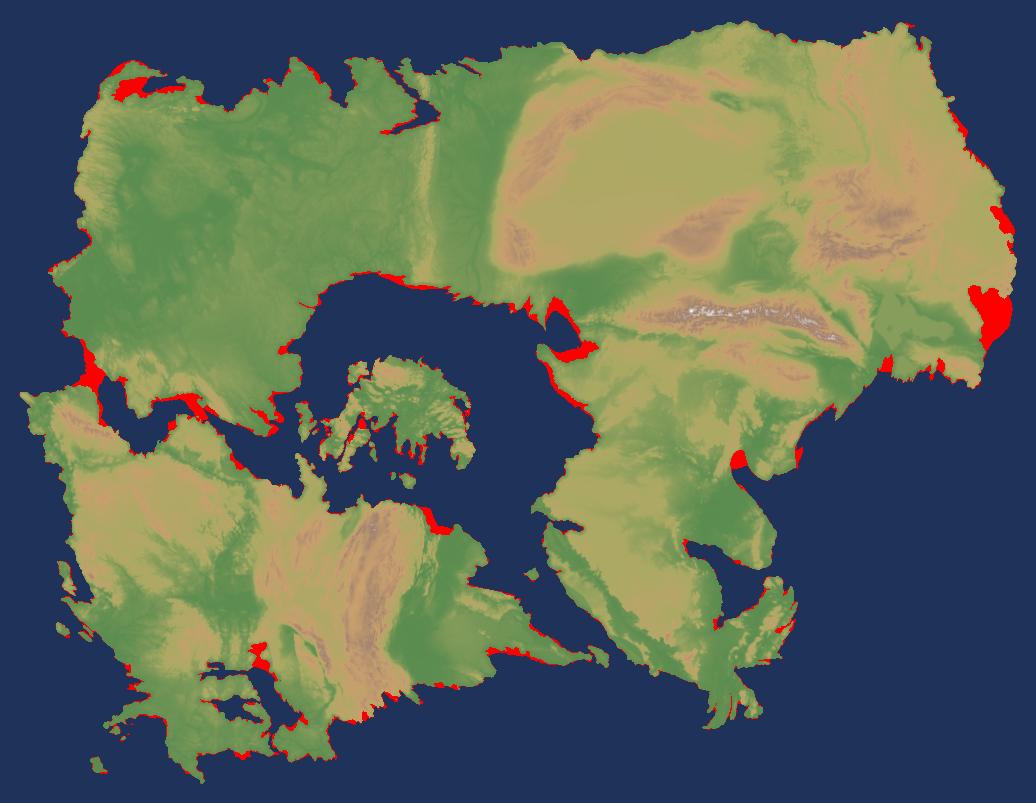
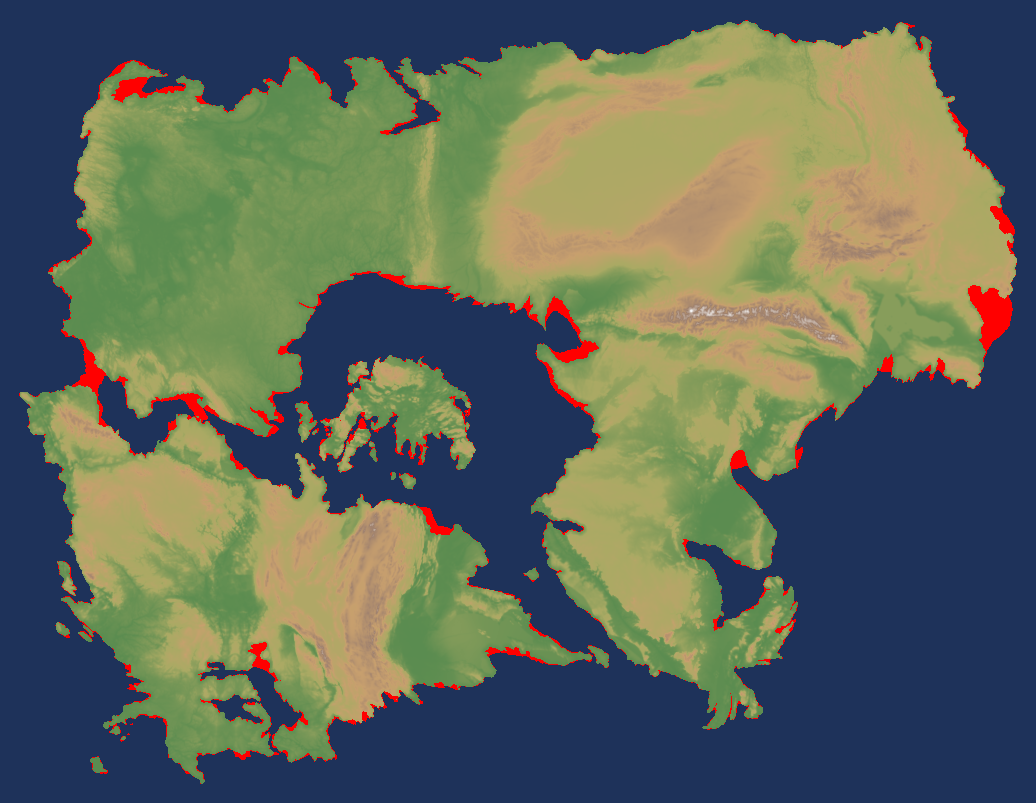
Tarih: 2'nin ortası bağlantılı tek karşılık (aynalı, güçlü bükülmüş Tarım sistemi); deneme
Claude-Session: https://claude.ai/code/session_01TrTgWsQ7k9npTcPJkL6aYQ

diff --git a/tarih/benzer.py b/tarih/benzer.py
@@ -41,30 +41,24 @@ KARSILIK = [
         "nokta": [(1250, 150, 93.0, 69.0), (1680, 240, 106.5, 53.0)],
         "gol": [("Derin Göl", [(103.7, 51.5), (104.9, 51.5), (106.2, 52.1), (107.4, 52.8), (108.6, 53.4), (109.5, 54.4), (110.0, 55.7),
                                (109.4, 55.9), (108.5, 54.9), (107.3, 53.9), (106.3, 53.3), (105.2, 52.6), (104.1, 51.9)])],
-        "bolge": [(1080, 0), (2000, 0), (2000, 600), (1700, 560), (1500, 470), (1300, 450), (1100, 470), (1080, 300)],
+        "bolge": [(1550, 0), (2000, 0), (2000, 560), (1780, 450), (1700, 150)],
     },
-    {   # 2'nin batı ortası: çanak plato (sahibin bozkır platosu, atlasta işaretli). Karşılığı Tarım havzası ve çevresi:
-        # sert, kıvrılmamış Kır Çekirdeği bloğu (Kuzey Tuzakları bazaltlarıyla örtülü) Mor çarpışmasıyla bütün olarak kalktı,
-        # kenarlarındaki eski dikişler sıradağ oldu. Taban 800 ile 1000 m'ye, kenar sıraları 3 ile 3,5 km'ye ölçeklendi.
-        "ad": "Tarım", "kutu": (70, 98, 33, 50), "parca": {"2", "serit"}, "oncelik": 4.0, "yumusak_km": 70,
-        "yukseklik_egri": [(0, 0), (1500, 1200), (8000, 4775)],
-        "etiket": [("Tuzak Çanağı", 83.0, 39.6, 18), ("ÇANAK SIRALARI", 84.0, 42.4, 14)],
-        "nokta": [(1010, 380, 76.0, 39.5), (1470, 300, 90.5, 40.3), (1250, 470, 84.0, 36.4), (1230, 140, 84.0, 42.8)],
-        "bolge": [(1211, 68), (1352, 78), (1471, 179), (1525, 310), (1530, 323), (1449, 400), (1444, 441), (1400, 470), (1250, 470),
-                  (1125, 470), (1027, 470), (968, 458), (952, 441), (968, 294), (1027, 163), (1081, 114), (1146, 78)],
-    },
-    {   # Mor çizgisi: Büyük Kafkas (2,2 kat uzatıldı, yükseklik 0,8); kuzeyde Stavropol yaylası, güneyde Kura ovası
-        "ad": "Kafkas", "kutu": (35, 51, 38.5, 47.5), "parca": {"2", "3", "serit"}, "carpan": 1.15,
-        "etiket": [("MOR SIRADAĞLARI", 43.5, 43.0, 19), ("Şerit Yaylası", 42.5, 45.2, 16), ("Mor Ön Ovası", 42.3, 42.3, 15)],
-        "nokta": [(1085, 600, 37.4, 44.9), (1400, 595, 43.2, 43.0), (1720, 680, 49.8, 40.5)],
-        "bolge": [(1000, 600), (1100, 470), (1300, 450), (1500, 470), (1700, 560), (2000, 600), (2000, 780), (1760, 760), (1500, 720),
-                  (1300, 680), (1140, 680), (1050, 690)],
+    {   # 2'nin ortası ve Mor çizgisi tek parça: Kunlun = Mor Sıradağları, Tarım = Tuzak Çanağı (sahibin bozkır platosu),
+        # Tanrı Dağları = Çanak Sıraları, Cungarya ve Altay kuzeyde. Tibet dahil değil: Mor'un güneyi 3'tür (Hindistan karşılığı).
+        # Yükseklik eğrisi: çanak tabanı 800 ile 1000 m, Mor doruğu 6 km dolayı.
+        "ad": "Tarım", "kutu": (66, 104, 33, 52), "parca": {"2", "3", "serit"}, "yumusak_km": 45, "ayna": True, "bukme_kat": 2.5,
+        "yukseklik_egri": [(0, 0), (1300, 1000), (3500, 2600), (8000, 6000)],
+        "etiket": [("MOR SIRADAĞLARI", 86.0, 36.2, 19), ("Tuzak Çanağı", 83.0, 39.4, 18), ("ÇANAK SIRALARI", 84.5, 42.6, 14)],
+        "nokta": [(1720, 670, 77.0, 36.6), (1500, 612, 84.0, 36.0), (1300, 565, 90.0, 36.0), (1100, 595, 96.0, 35.6),
+                  (1350, 230, 84.0, 42.8)],
+        "bolge": [(940, 60), (1550, 40), (1700, 150), (1780, 450), (2000, 560), (2000, 730), (1720, 690), (1500, 635), (1300, 588),
+                  (1100, 615), (1040, 640), (1000, 600), (940, 450)],
     },
     {   # 3: Ganj ovası = Mor Ön Ovası, Dekkan = Kızıl Basamaklar, Batı Gatlar = kanal omzu
         "ad": "Hindistan", "kutu": (62, 95, 3, 32), "parca": {"3"},
         "etiket": [("Kızıl Basamaklar", 76.5, 19.0, 17)],
         "benzerlik": (1220, 950, 77.0, 18.0, 18.0, 1.55, False),
-        "bolge": [(1000, 640), (1200, 640), (1500, 690), (1750, 740), (1560, 790), (1480, 1000), (1420, 1200), (1360, 1460), (1100, 1360), (980, 1100)],
+        "bolge": [(1000, 620), (1200, 610), (1500, 660), (1750, 720), (1560, 790), (1480, 1000), (1420, 1200), (1360, 1460), (1100, 1360), (980, 1100)],
     },
     {   # 3'ün doğu kıyısı: Sumatra ve Cava yayı (aynalı) = Doğu Yay Dağları ve güneydoğu yarımadası
         "ad": "Sumatra", "kutu": (92, 117, -11, 9), "parca": {"3"}, "ayna": True,
@@ -173,7 +167,7 @@ def ornekle(k, ny, nx, s, maske_w, kaynaklar, bukme=None):
     """Ağırlığı sıfır olmayan hücrelerde kaynak yüksekliği; parçalı değerlendirme. bukme: (WX, WY) görüntü pikseli."""
     ileri, _ = esleme(k)
     if k["ad"] not in kaynaklar:
-        kaynaklar[k["ad"]] = dem.Kaynak(*k["kutu"], z=k.get("z", 6)).doldur(kutu=k["kutu"])
+        kaynaklar[k["ad"]] = dem.Kaynak(*k["kutu"], z=k.get("z", 6)).doldur(kutu=k["kutu"], kes=k.get("kes"))
     K = kaynaklar[k["ad"]]
     out = np.zeros((ny, nx), np.float32); deniz = np.zeros((ny, nx), np.float32)
     ii, jj = np.nonzero(maske_w > 1e-3)
@@ -181,7 +175,8 @@ def ornekle(k, ny, nx, s, maske_w, kaynaklar, bukme=None):
         i, j = ii[a:a + 400000], jj[a:a + 400000]
         x, y = j / s, i / s
         if bukme is not None:
-            x = x + bukme[0][i, j]; y = y + bukme[1][i, j]
+            kb = k.get("bukme_kat", 1.0)
+            x = x + kb * bukme[0][i, j]; y = y + kb * bukme[1][i, j]
         ll = ileri(np.stack([x, y], 1))
         h = K.ornek(ll[:, 0], ll[:, 1]) * k.get("carpan", 1.0)
         if k.get("yukseklik_egri"):
@@ -200,6 +195,87 @@ def ornekle(k, ny, nx, s, maske_w, kaynaklar, bukme=None):
             px, py = dem.merc(ll[:, 0], ll[:, 1], K.z)
             GOL[i, j] = np.maximum(GOL[i, j], ndimage.map_coordinates(K.golm, [py - K.ty0 * 256, px - K.tx0 * 256], order=1))
     return out, deniz
+
+
+
+# ------------------------------------------------------------------ tasarlanan bölge
+# 2'nin ortası ve Mor kuşağı: büyük şekil elle tasarlanır (kopya olmasın), gerçek veriden yalnız küçük ölçekli doku alınır
+# (Tarım karşılığının 25 km'den küçük sırt ve vadileri). Görüntü pikseli; yükseklik m.
+TASARIM = {
+    "etkin": False,  # denendi, kenar sıraları yapay kaldı; yerine aynalı ve güçlü bükülmüş Tarım karşılığı
+    "alan": [(900, 40), (1560, 20), (1730, 250), (1800, 480), (2000, 560), (2000, 770), (1760, 745), (1500, 705), (1080, 668),
+             (960, 610), (900, 400)],
+    "taban": ([(1000, 330), (1040, 200), (1110, 150), (1210, 130), (1340, 135), (1430, 205), (1470, 300), (1500, 420),
+               (1420, 480), (1250, 470), (1100, 470), (1010, 430)], (1000, 820)),   # çanak tabanı: batıda 1000, doğuda 820
+    "siralar": [
+        # ad, çizgi, köşe yükseklikleri, yarı genişlik km (kuzey/batı yanı, güney/doğu yanı)
+        ("Çanak Sıraları", [(985, 340), (1015, 190), (1090, 110), (1210, 82), (1350, 88), (1460, 160), (1515, 280)],
+         [1800, 2700, 3300, 3600, 3400, 3000, 2600], (85, 70)),
+        ("Doğu Kolu", [(1515, 280), (1555, 400), (1600, 520), (1640, 630)], [2600, 2900, 3500, 4600], (75, 75)),
+        ("Batı Kolu", [(985, 340), (975, 450), (1010, 560), (1080, 610)], [1800, 1600, 2200, 3600], (45, 45)),
+        ("Mor Sıradağları", [(1075, 615), (1150, 562), (1300, 562), (1500, 614), (1715, 674), (1870, 700)],
+         [3600, 4600, 5200, 5600, 4900, 3200], (115, 75)),
+        ("Şerit Sırtları", [(1180, 510), (1350, 505), (1520, 545), (1640, 590)], [1700, 2000, 2300, 2600], (40, 40)),
+    ],
+    # doku kaynağı: engebeli bir iç yayla (aynalı Tibet içi); yalnız 25 km'den küçük sırt ve vadileri kullanılır
+    "doku": {"ad": "doku", "kutu": (76, 102, 28, 38), "benzerlik": (1400, 380, 89.0, 33.0, 0.0, 1.0, True), "bolge": [(0, 0)]},
+    "etiket": [("MOR SIRADAĞLARI", (1330, 590), 19), ("Tuzak Çanağı", (1230, 300), 18), ("ÇANAK SIRALARI", (1150, 70), 14),
+               ("Şerit Yaylası", (1360, 488), 14)],
+}
+
+
+def tasarla(z, kara, s, doku):
+    """Tasarlanan bölgeyi bileşiğe işler. doku: aynı ızgarada Tarım karşılığından örneklenen yükseklik (yalnız ayrıntısı alınır)."""
+    ny, nx = z.shape
+    hk = O.KM_PX / s
+    r = np.random.default_rng(77)
+    def gur(km, kok):
+        g = ndimage.gaussian_filter(np.random.default_rng(kok).standard_normal((ny // 4, nx // 4)), km / hk / 4, mode="wrap")
+        return ndimage.zoom(g / g.std(), (ny / g.shape[0], nx / g.shape[1]), order=1)[:ny, :nx]
+    II, JJ = np.indices((ny, nx), dtype=np.float32)
+    # çizgiler düz durmasın: alan bükmesi (yaklaşık ±45 km)
+    bx = (gur(400, 1) * 9 + gur(120, 2) * 3) * s; by = (gur(400, 3) * 9 + gur(120, 4) * 3) * s
+    def cokgen_al(p, sig_km):
+        im = Image.new("F", (nx, ny), 0.0)
+        ImageDraw.Draw(im).polygon([(x * s, y * s) for x, y in p], fill=1.0)
+        a = ndimage.map_coordinates(np.asarray(im), [II + by, JJ + bx], order=1)
+        return ndimage.gaussian_filter(a, sig_km / hk)
+    W = cokgen_al(TASARIM["alan"], 60) * kara
+    # arka plan: bileşiğin çok yumuşatılmışı
+    makro = ndimage.gaussian_filter(np.where(kara, z, 0.0), 120 / hk)
+    tp, (h0, h1) = TASARIM["taban"]
+    tb = cokgen_al(tp, 70)
+    xs = np.array([p[0] for p in tp]); egim = h0 + (h1 - h0) * np.clip((JJ / s - xs.min()) / (xs.max() - xs.min()), 0, 1)
+    makro = makro * (1 - tb) + egim * tb
+    from scipy.spatial import cKDTree
+    sirt = np.zeros((ny, nx), np.float32)
+    for ad, c, hs, (wk, wg) in TASARIM["siralar"]:
+        c = np.array(c, float)
+        pts, val, nrm = [], [], []
+        for i in range(len(c) - 1):
+            n = max(2, int(np.hypot(*(c[i + 1] - c[i])) * s / 2))
+            t = np.linspace(0, 1, n, endpoint=False)
+            pts.append(c[i] + (c[i + 1] - c[i]) * t[:, None]); val.append(hs[i] + (hs[i + 1] - hs[i]) * t)
+            d = (c[i + 1] - c[i]) / np.hypot(*(c[i + 1] - c[i])); nrm.append(np.repeat([[-d[1], d[0]]], n, 0))
+        pts = np.vstack(pts) * s; val = np.concatenate(val); nrm = np.vstack(nrm)
+        # yalnız çevresinde hesapla
+        x0, y0 = pts.min(0) - 250 * s / O.KM_PX * 4; x1, y1 = pts.max(0) + 250 * s / O.KM_PX * 4
+        r0, r1 = int(max(y0, 0)), int(min(y1, ny)); c0, c1 = int(max(x0, 0)), int(min(x1, nx))
+        qy = II[r0:r1, c0:c1] + by[r0:r1, c0:c1]; qx = JJ[r0:r1, c0:c1] + bx[r0:r1, c0:c1]
+        dist, idx = cKDTree(pts).query(np.stack([qx.ravel(), qy.ravel()], 1))
+        dist = dist.reshape(qx.shape) * hk
+        yan = ((qx.ravel() - pts[idx, 0]) * nrm[idx, 0] + (qy.ravel() - pts[idx, 1]) * nrm[idx, 1]).reshape(qx.shape)
+        w = np.where(yan < 0, wk, wg)   # çizgi yönünün solu (kuzey ya da batı) ile sağı ayrı genişlikte
+        H = val[idx].reshape(qx.shape) * (0.85 + 0.15 * gur(60, 9)[r0:r1, c0:c1])
+        prof = H * np.exp(-(dist / w) ** 2)
+        sirt[r0:r1, c0:c1] = np.maximum(sirt[r0:r1, c0:c1], prof)
+    makro = np.maximum(makro, sirt)
+    # doku: Tarım karşılığının küçük ölçekli kısmı, yerel yüksekliğe göre genlik
+    ince = doku - ndimage.gaussian_filter(doku, 22 / hk)
+    ince = np.clip(ince / (ndimage.gaussian_filter(np.abs(ince), 60 / hk) + 30), -2.2, 2.2)  # birim genliğe yakın
+    genlik = 50 + 380 * np.clip((makro - 900) / 2500, 0, 1.3)
+    yeni = makro + ince * genlik
+    return np.where(kara, z * (1 - W) + np.maximum(yeni, 5) * W, z)
 
 
 GOL = None
@@ -230,6 +306,8 @@ def bilesik():
         z, _ = ornekle(k, ny, nx, s, w, kaynaklar, bukme)
         toplam += w * z; wtop += w
         genis.append((k, w))
+        if k["ad"] == "Tarım":
+            doku_t = z.copy()
         log(f"{k['ad']}: tamam (en yüksek {z.max():.0f} m)")
     # boşluk kalan kara: en yakın karşılığın geniş yumuşatılmış ağırlığıyla
     bos = kara & (wtop < 0.05)
@@ -240,6 +318,15 @@ def bilesik():
             z, _ = ornekle(k, ny, nx, s, wb, kaynaklar, bukme)
             toplam += wb * z; wtop += wb
     z = toplam / np.maximum(wtop, 1e-6)
+    # Tarım dokusu tasarlanan alanın tamamında gerekir
+    if TASARIM.get("etkin"):
+        k_t = TASARIM["doku"]
+        im = Image.new("L", (nx, ny), 0)
+        ImageDraw.Draw(im).polygon([(x * s, y * s) for x, y in TASARIM["alan"]], fill=1)
+        alan = ndimage.binary_dilation(np.asarray(im) > 0, iterations=int(80 * s))
+        doku_t, _ = ornekle(k_t, ny, nx, s, alan.astype(np.float32), kaynaklar, bukme)
+        z = tasarla(z, kara, s, doku_t)
+        log("tasarlanan bölge işlendi")
     # kıyı rampası: kaynakta iç kesim olan yer hedefte kıyıya düşerse yumuşak iniş
     dk = ndimage.distance_transform_edt(kara) * O.KM_PX / s
     u = np.clip(dk / 45.0, 0, 1)
@@ -319,7 +406,7 @@ def etiketle(im):
             ("İÇ DENİZ", (900, 700), 22, False), ("Batı Körfezi", (215, 790), 15, False), ("Güneydoğu Kanalı", (1060, 1150), 14, False),
             ("KUZEY OKYANUSU", (1100, 18), 22, False), ("DOĞU OKYANUSU", (1660, 1100), 22, False),
             ("GÜNEY OKYANUSU", (800, 1470), 22, False), ("Doğu Hendeği", (1590, 1250), 14, False)]
-    yazi += [(t, (x - len(t) * n * 0.3, y - n * 0.6), n, False) for t, (x, y), n in etiketler()]
+    yazi += [(t, (x - len(t) * n * 0.3, y - n * 0.6), n, False) for t, (x, y), n in etiketler() + (TASARIM["etiket"] if TASARIM.get("etkin") else [])]
     for t, (x, y), n, k in yazi:
         d.text((x * s, y * s), t, fill=(25, 25, 25), font=f(n, k), stroke_width=max(1, int(2.5 * s)), stroke_fill=(250, 250, 245))
     kat = Image.new("RGBA", (int(260 * s), int(40 * s)), (0, 0, 0, 0))

diff --git a/tarih/dem.py b/tarih/dem.py
@@ -55,7 +55,7 @@ class Kaynak:
         self.h = np.vstack(satirlar).astype(np.float32)
         self.dolu = None
 
-    def doldur(self, s_px=25, kutu=None):
+    def doldur(self, s_px=25, kutu=None, kes=None):
         """Deniz hücrelerini (≤ 0) ve kutu dışını yansıyan karayla alçak ova olarak doldurur."""
         k = self.h > 0
         if kutu is not None:
@@ -64,6 +64,12 @@ class Kaynak:
             lon = (jj + self.tx0 * 256) / n * 360 - 180
             lat = np.degrees(np.arctan(np.sinh(np.pi * (1 - 2 * (ii + self.ty0 * 256) / n))))
             k &= (lon >= kutu[0]) & (lon <= kutu[1]) & (lat >= kutu[2]) & (lat <= kutu[3])
+        for cokgen in (kes or []):  # kaynakta istenmeyen bölge: deniz sayılır, yansıyan komşu karayla dolar
+            from PIL import Image as _I, ImageDraw as _D
+            px, py = merc(np.array([p[0] for p in cokgen]), np.array([p[1] for p in cokgen]), self.z)
+            im = _I.new("L", (k.shape[1], k.shape[0]), 0)
+            _D.Draw(im).polygon(list(zip(px - self.tx0 * 256, py - self.ty0 * 256)), fill=1)
+            k &= ~(np.asarray(im) > 0)
         w = ndimage.gaussian_filter(k.astype(float), s_px)
         v = ndimage.gaussian_filter(np.where(k, self.h, 0.0), s_px)
         ort = v / np.maximum(w, 1e-6)
